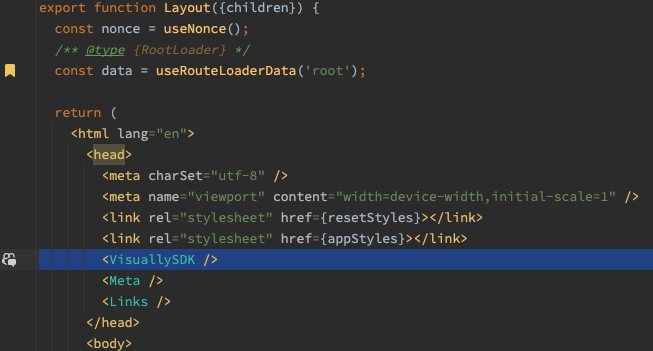
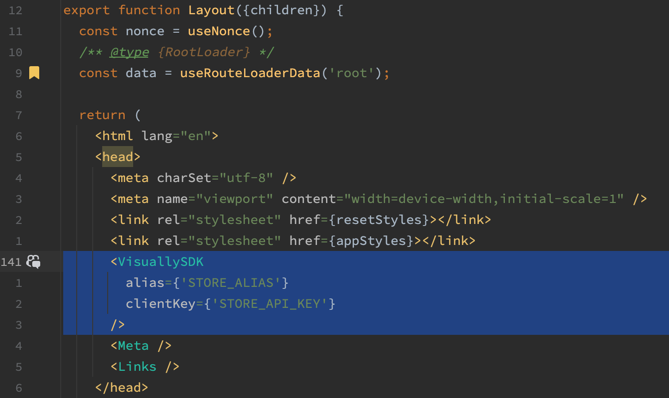
updting readme

diff --git a/README.md b/README.md
@@ -31,8 +31,11 @@ Or files that import the `Visually.jsx` components and Methods.
 ### Adding the visually.io scripts to the page head </br>
 
  - `app/root.jsx`
-
   <img alt="img.png"  src="readme_assets/img.png" width="700"/>
+
+The Alias and Api key can be found in the [Visually dashboard](https://app.visually.io/dashboard) after you install the Visually app.
+Account Settings > Manual Script Integration
+ 
 
 ### Configuring the api key and the store alias
 
